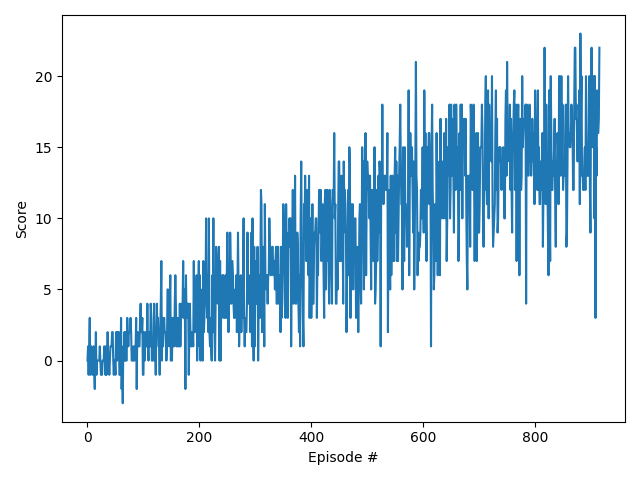
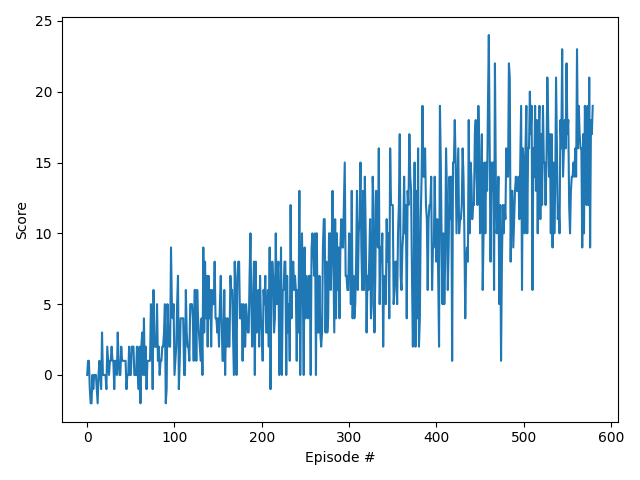
new gif

diff --git a/report.md b/report.md
@@ -31,7 +31,7 @@ The following hyper-parameters were experimented with, and the values used are g
 
 
 ### Results
-The target average score of 15.0 was reached in 900 episodes.
+The target average score of 15.0 was reached in 480 episodes.
 
 ![reward by episode](img/reward.png "Reward")
 
